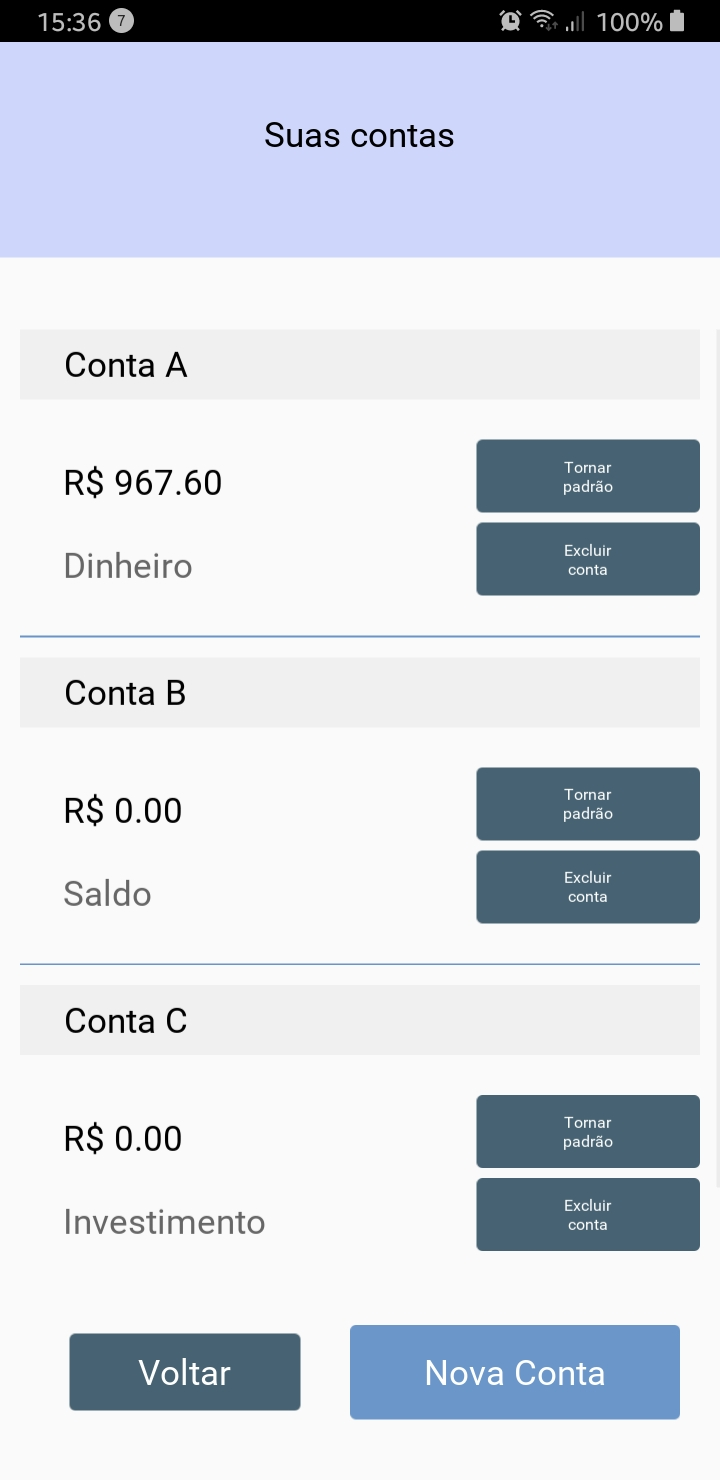
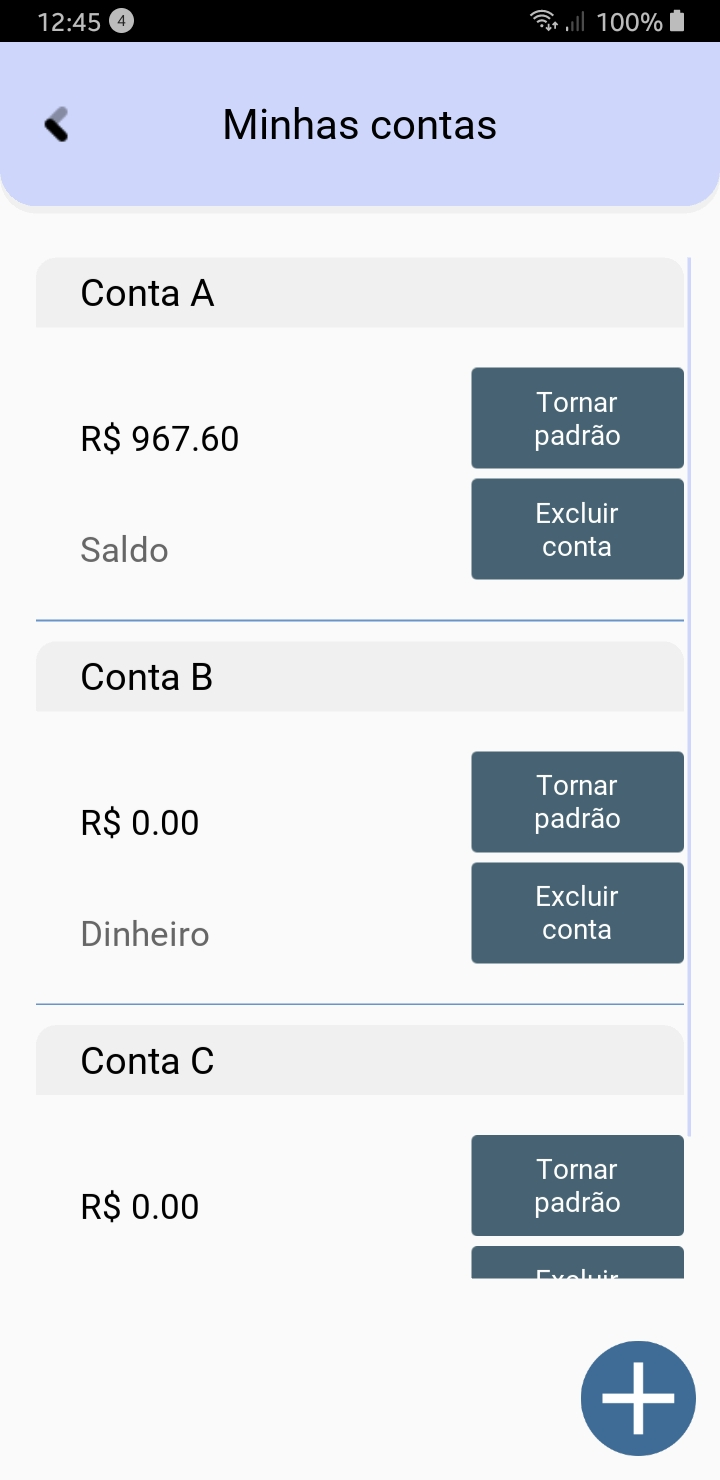
docs: atualiza "README.md"

diff --git a/README.md b/README.md
@@ -2,7 +2,7 @@
  <img src='.imagens/icone.png' width=150>
 </div>
 <h1 align="center">Economize!</h1>
-<p align="center">Aplicativo android feito em Kivy para controlar gastos de forma mais simples e objetiva</p>
+<p align="center">Aplicativo Android feito em Kivy para controlar gastos de forma mais simples e objetiva</p>
 
 
 <p align="center">
@@ -23,36 +23,42 @@
 Os aplicativos disponíveis são ótimos (mesmo usando a versão gratuita), mas aqueles gráficos e a quantidade absurda de funções estava me distraindo mais que ajudando. Visto isso, o Economize! vem como uma ferramenta objetiva e simples de acompanhar os gastos!
 
 <h2 id='requisitos'> Pré-requisitos e run </h2>
+Se quiser rodar em seu **Computador** você vai seguir os seguintes passos:
 
-Se quiser rodar em seu **Computador** você vai precisar ter instalado em sua máquina:
+**1. Ativar o ambiente virtual**
 
-* Python 3.6.x
-* Kivy 2.0.0
+  Na pasta principal do programa, rodar: 
 
-O comando para rodar no computador é o seguinte:
-
-* **Para linux**
-
-```
- python3 main.py -m screen:phone_nexus_5,scale=.4,portrait
-```
+* **Para distros linux**
+  ```
+  source ./bin/activate
+  ```
 
 * **Para windows**
+  ```
+  outra coisa
+  ```
 
-```
-python main.py -m screen:phone_nexus_5,scale=.4,portrait
-```
 
-Se desejar rodar em seu **celular**, basta ir [nas nossas tags](https://github.com/laribrito/Economize/releases) para visualizar as *releases* existentes, baixar e instalar em seu aparelho.
+**2. Rodar o programa**
 
-<h2 id='galeria'>Galeria v1.1.0</h2>
+  Com o ambiente virtual ativado, rodar:
 
-|<p>• Tela de inicio no primeiro login</p> <img src='.imagens/inicio.jpg'   height='500'>|<p>• Tela de inicio com botões à mostra</p> <img src='.imagens/inicio03.jpg' height='500'>| <p>• Tela para gerenciar as contas<br>cadastradas</p> <img src='.imagens/contas.jpg'   height='500'> |
+  ```
+  python main.py -m screen:phone_nexus_5,scale=.4,portrait
+  ```
+
+Se desejar rodar em seu **celular**, basta ir [nas nossas tags](https://github.com/laribrito/Economize/releases) para visualizar as releases existentes, baixar e instalar em seu aparelho.
+<br> *Obs.: Somente ANDROID*
+
+<h2 id='galeria'>Galeria v1.2.0</h2>
+
+|<p>• Tela de inicio com botões à mostra</p> <img src='.imagens/inicio.jpg'   height='500'>|<p>• Tela de inicio depois do uso</p> <img src='.imagens/inicio02.jpg' height='500'>| <p>• Tela para gerenciar as contas<br>cadastradas</p> <img src='.imagens/contas.jpg'   height='500'> |
 |----------------|-------------------------------|-----------------------------|
-|<p><b>• Tela para adicionar um ganho</b></p> <img src='.imagens/ganho.jpg'    height='500'>| <p><b>• Tela para adicionar uma retirada</b></p> <img src='.imagens/retirada.jpg' height='500'> | <p><b>• Tela de inicio depois do uso</b></p> <img src='.imagens/inicio02.jpg' height='500'>|
+|<p><b>• Tela para adicionar um ganho</b></p> <img src='.imagens/ganho.jpg'    height='500'>| <p><b>• Tela para adicionar uma retirada</b></p> <img src='.imagens/retirada.jpg' height='500'> | <p><b>• Tela para adicionar uma conta</b></p> <img src='.imagens/conta.jpg' height='500'>|
 
 
-<h2 id='tecnologias'> Tecnologias</h2>
+<h2 id='tecnologias'>Tecnologias</h2>
 
 As seguintes ferramentas foram usadas na construção do projeto:
 
